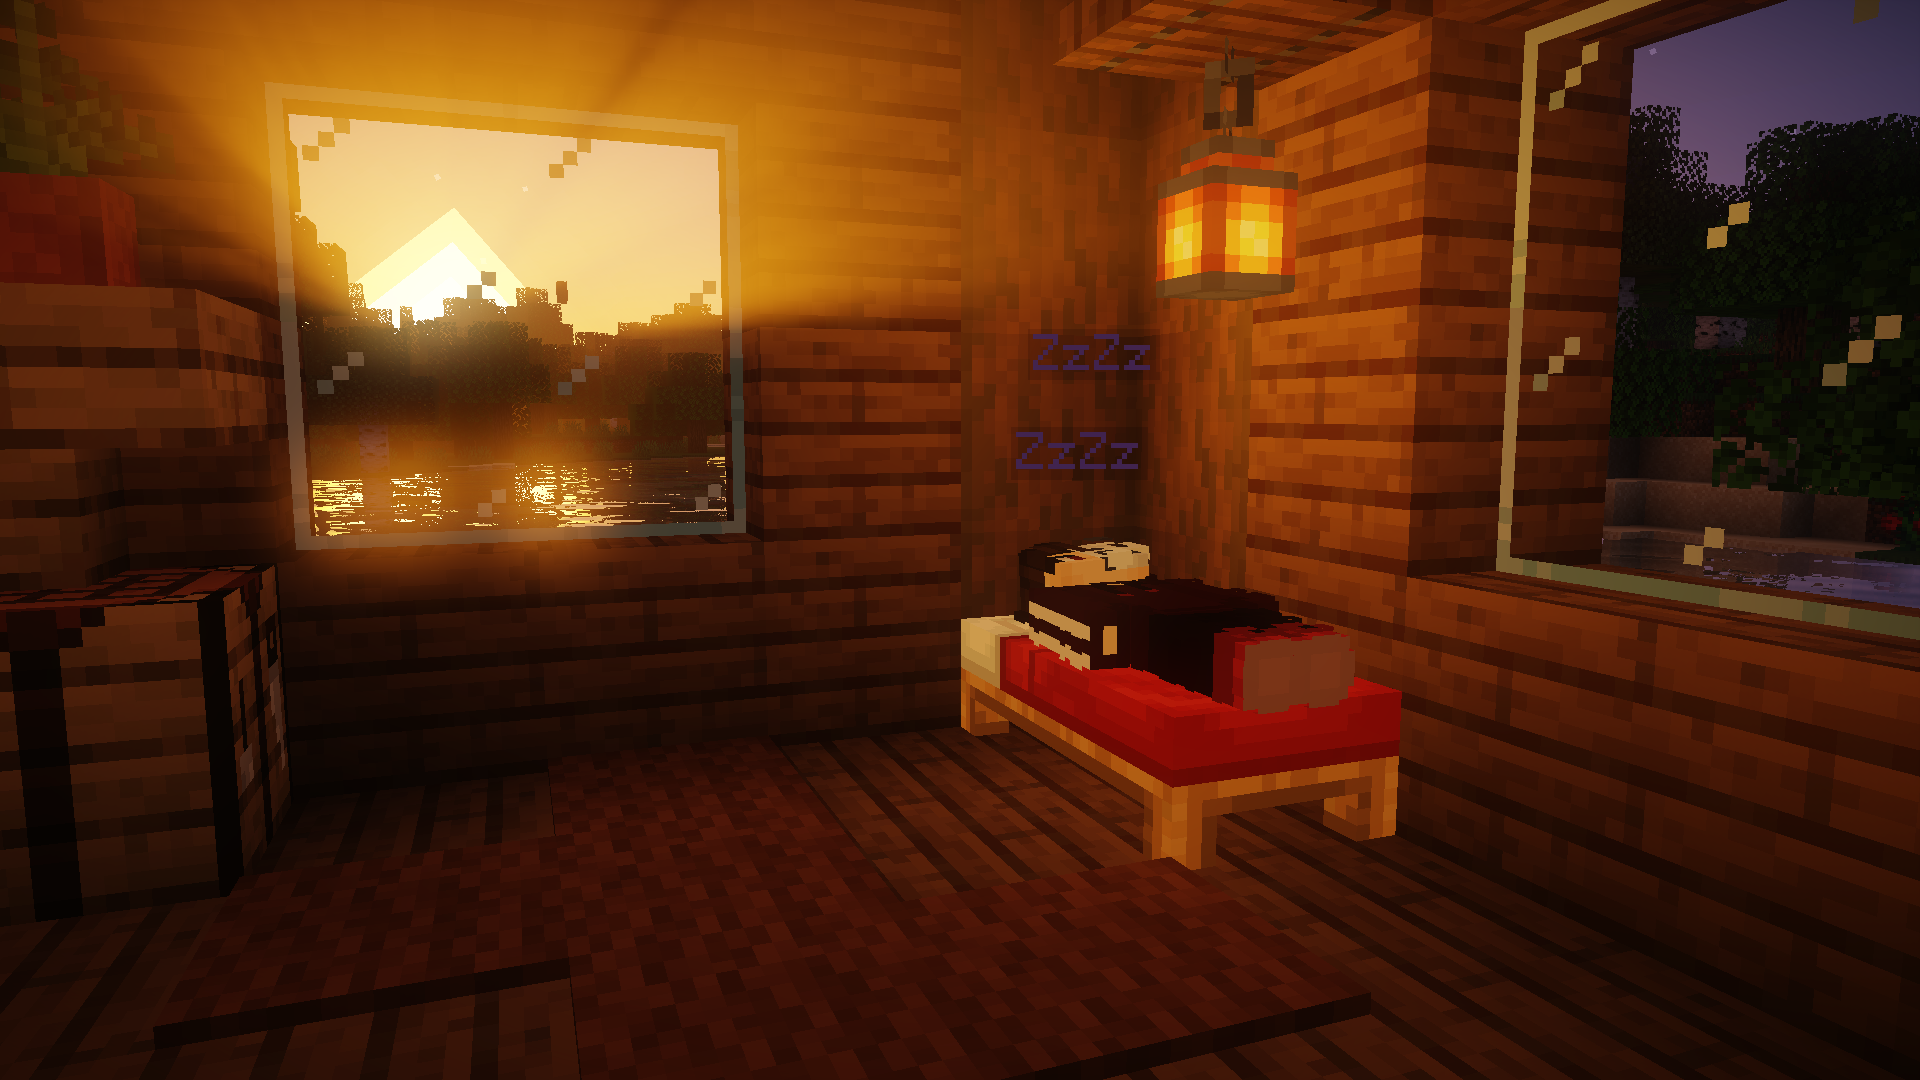
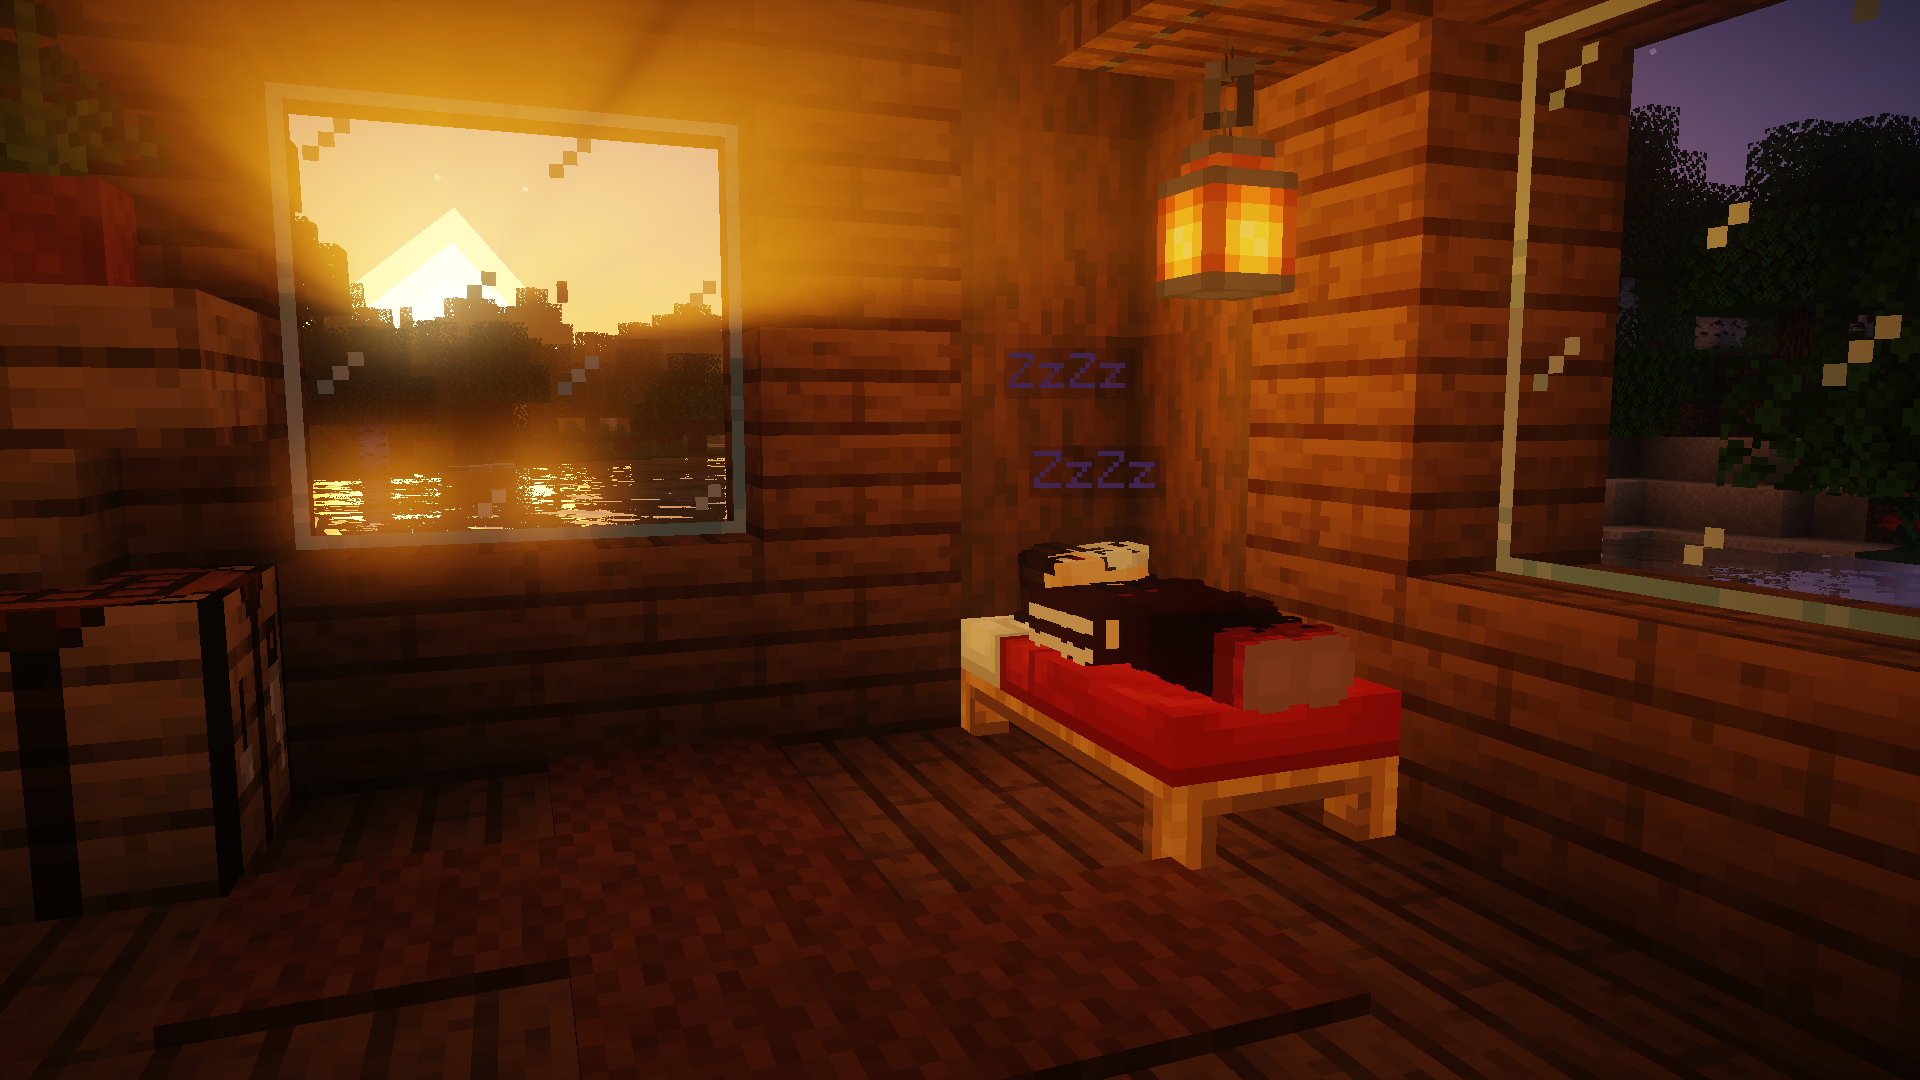
fixed deathpoint's versions from saying 1.0.0 instead of 1.0.1 and rearranged sleeping zs media images

diff --git a/_posts/0000-00-00-deathpoint.md b/_posts/0000-00-00-deathpoint.md
@@ -4,7 +4,7 @@ title: "DeathPoint"
 permalink: /datapacks/deathpoint
 date: 2020-05-01
 short-description: "Never forget where you die, so you never lose your items again!"
-version: 1.0.0
+version: 1.0.1
 download: "/downloads/DeathPoint.zip"
 ---
 Created by: PvPqnda
